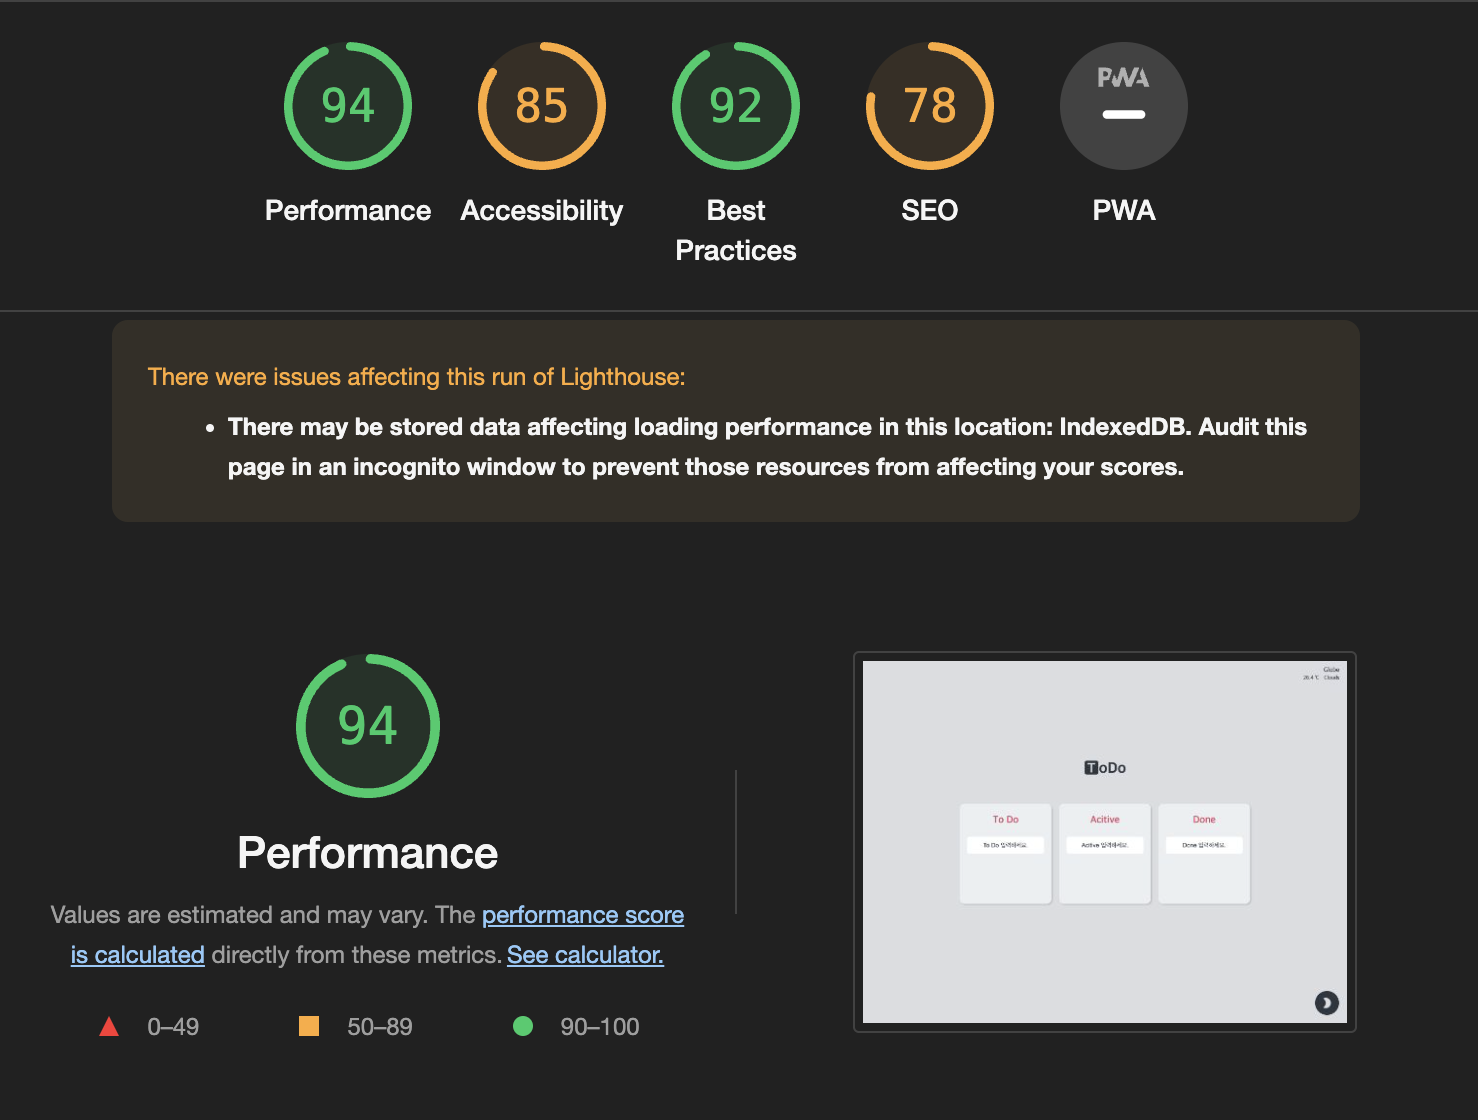
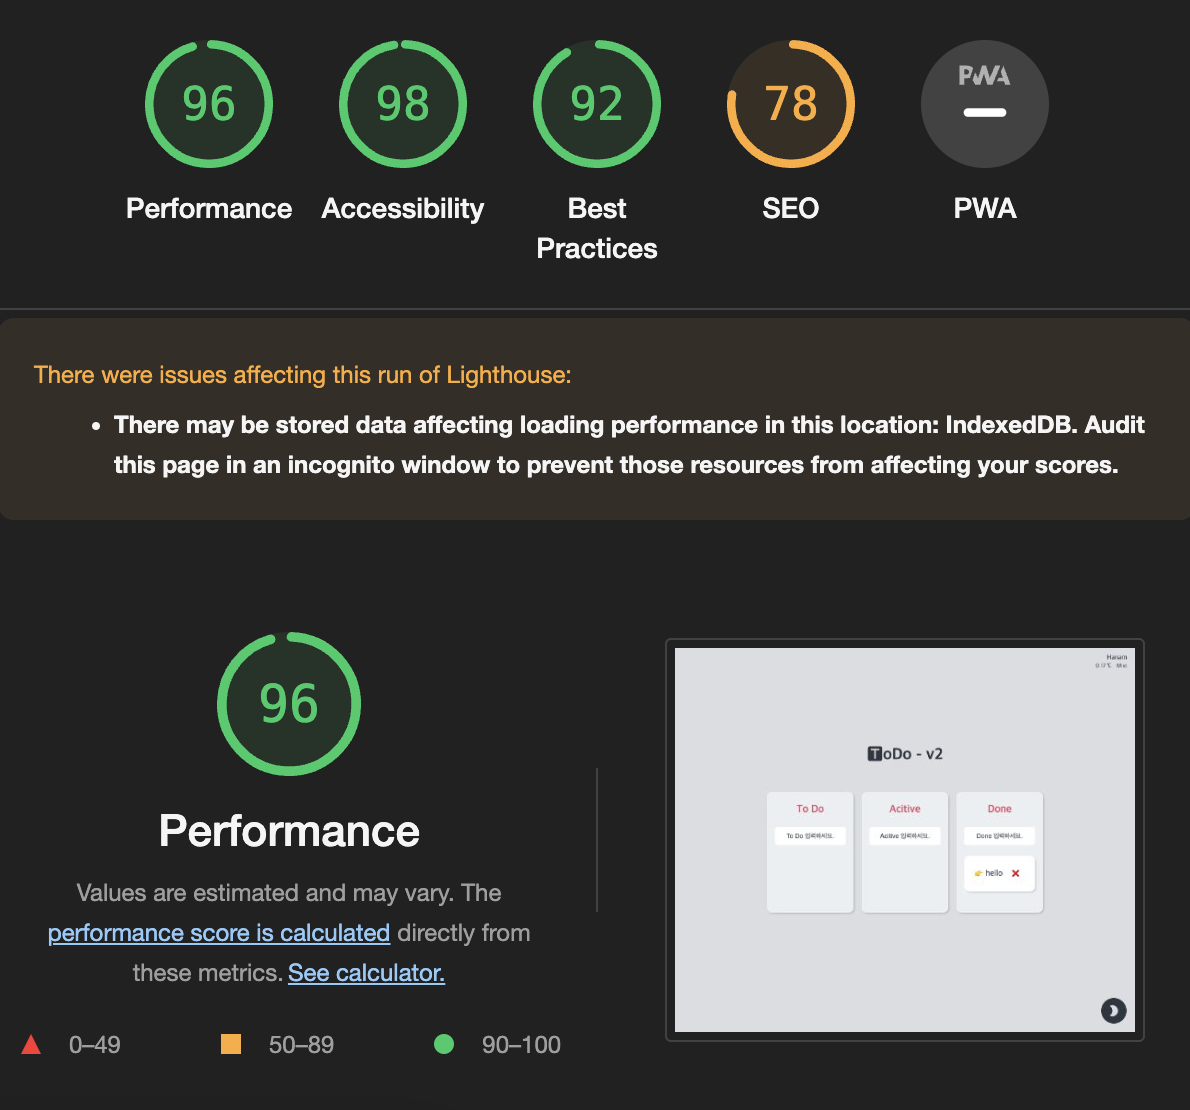
Docs : version 1과 비교

diff --git a/README.md b/README.md
@@ -15,6 +15,15 @@
 - 저번에 TodoList 토이 프로젝트 만들고 나서, 이번에는 칸반보드를 만들어보고 싶었다.
 - TodoList version 2.0
 
+|       version 1       |        version 2        |
+| :-------------------: | :---------------------: |
+|          CRA          |          Vite           |
+|   다양한 라이브러리   |     라이브러리 연습     |
+|      select 태그      | 드래그앤드롭 라이브러리 |
+|      성능 측정 X      |       성능 측정 O       |
+|      다크 모드 X      |       다크 모드 O       |
+| 배열 하나에 모든 atom |       객체별 atom       |
+
 <br>
 
 ## 이슈
